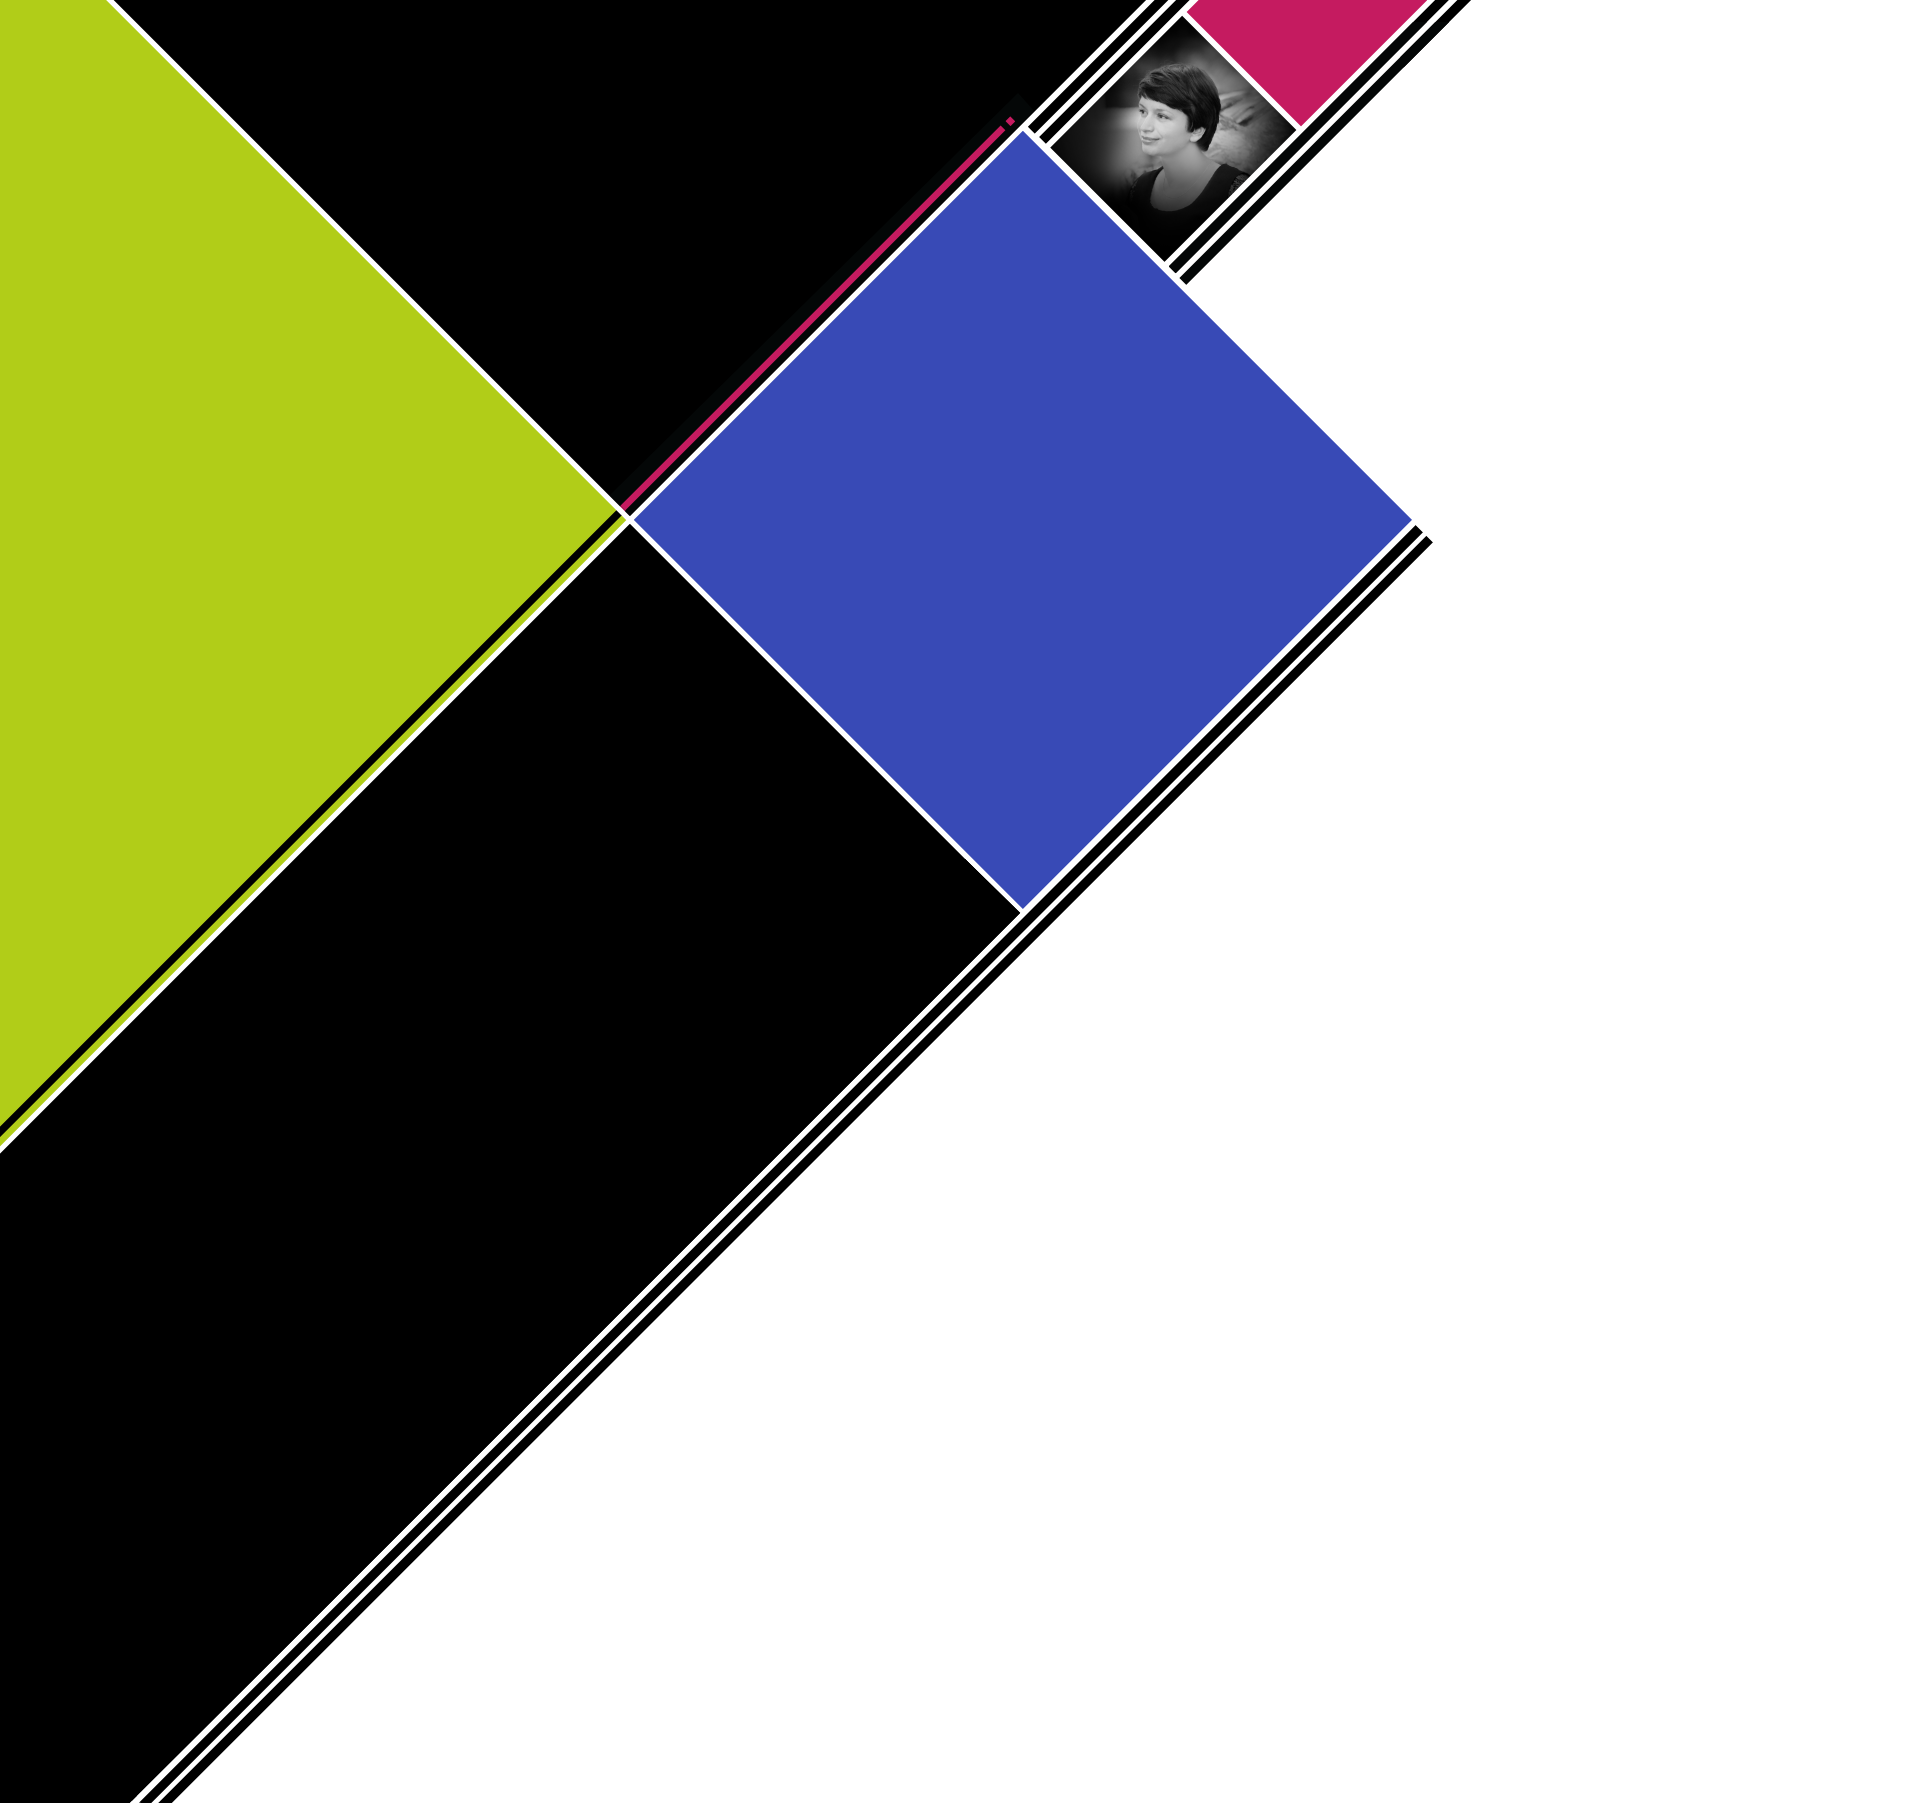
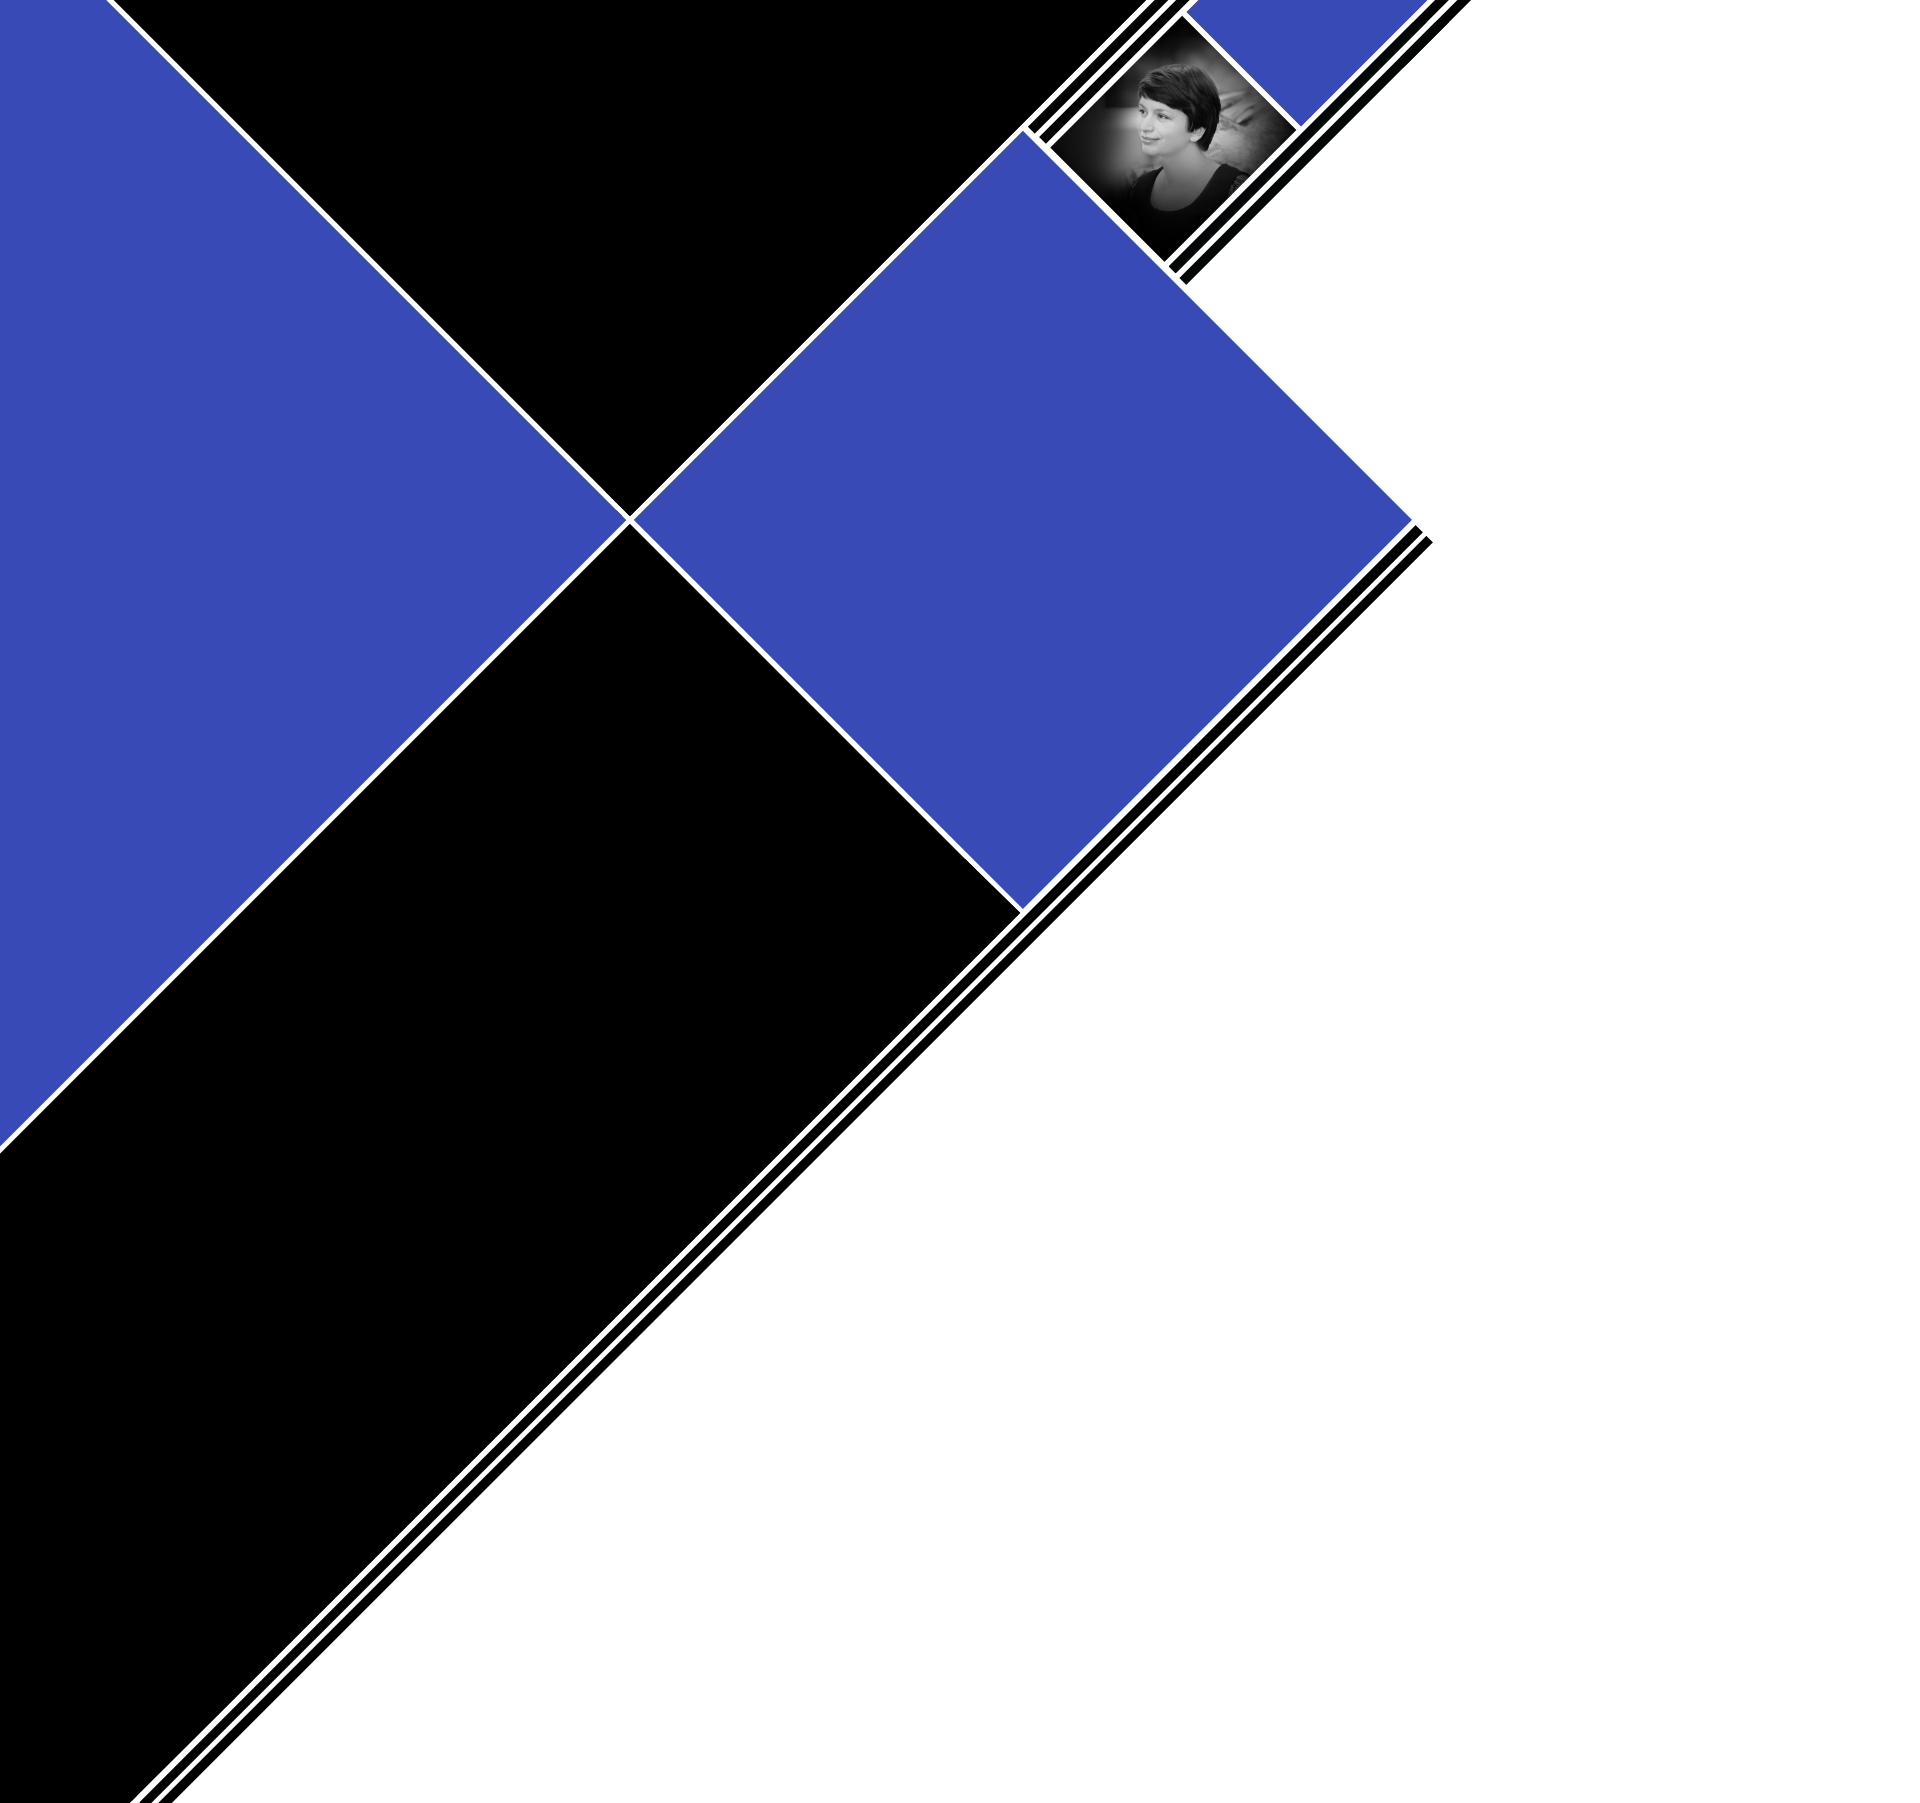
ZMIANA TŁA

diff --git a/style.css b/style.css
@@ -1,7 +1,7 @@
 body {
 	margin: 0px;	
 	font-size: 11pt;
-	color: white;
+	color: #c6c6c7;
 	font-family: 'Play', sans-serif;
 }
 
@@ -132,7 +132,7 @@ a {
 }
 
 #menu a {
-	color: #d7f91d;
+	color: #FFFFFF;
 	text-decoration: none;
 	margin-right: 25px;
 	font-size: 10pt;

diff --git a/index.html b/index.html
@@ -21,7 +21,7 @@
 
 <body>
 	<!-- hidden for faster loading -->
-	<img src="pict/background_1.png" class="hidden">
+	<img src="background2.png" class="hidden">
 	<img src="pict/filters.svg" class="hidden">
 	<img src="pict/laptop.png" class="hidden">
 
